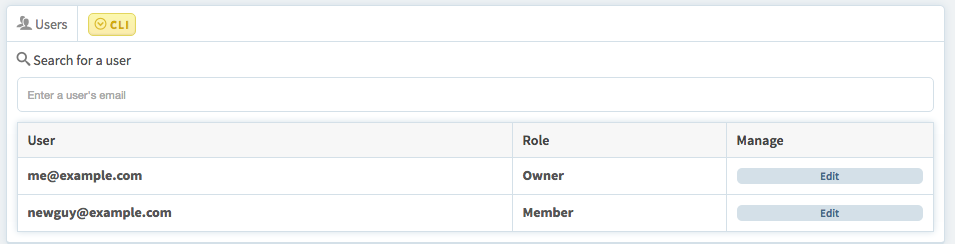
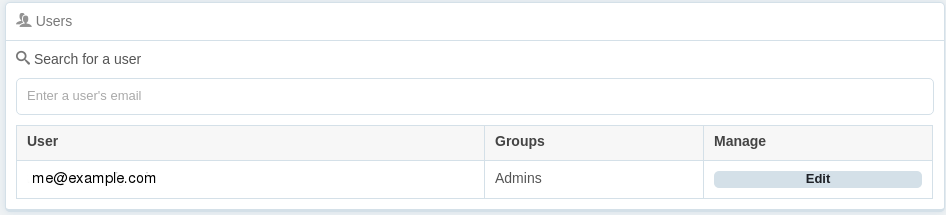
acl guide

Changed region(s): [[0.0, 0.0, 1.0, 1.0]]

diff --git a/concepts/organizations.md b/concepts/organizations.md
@@ -2,22 +2,23 @@
 title: Organizations
 category: organization
 summary: What is a Datica Organization?
-alias: ["compliant-cloud/articles/organization-access-controls/", "compliant-cloud/articles/organization-addremove-users/"]
+alias: ["compliant-cloud/articles/organization-addremove-users/"]
 ---
 
 An **Organization** is a group of user accounts, usable across all Datica products. Typically, an organization maps to (and is named after) your company. Organizations are created for you during the provisioning process. It is possible to be a member of multiple organizations.
 
 In [Compliant Cloud](https://datica.com/compliant-cloud), each [environment](/compliant-cloud/articles/concepts/environments) belongs to a single organization.
 
-## Roles
+## Groups
 
-Every user in an organization has a role.
+Every user in an organization belongs to at least one "group" ([more on "groups" and how to manage them](/compliant-cloud/articles/concepts/acl-groups)). Groups manage who in your organization has access to any given Datica resource or product. You can create and delete groups as you see fit, but you only start out with one, **Admins**, which is a group you may not delete or modify as it is the group that administrates user privileges (though you may revoke access to the group). Typically, an organization only has a few **Admins**. When a new organization is created for you, the first user invited becomes the first **Admin**.
 
-* **Members** can see the environments that belong to the organization, but can only view the details of and interact with environments that they have been specifically been granted permission on.
-* **Admins** can view the details of any of the organization's environments, grant **Members** permission to do the same, and invite new **Members** to the organization.
-* **Owners** can do anything an **Admin** can, as well as promote/demote other members of the organization to new roles.
+## ACLs
 
-Typically, an organization only has one **Owner**. When a new organization is created for you, the first user invited becomes the first **Owner**.
+Groups are [composed of ACLs](/compliant-cloud/articles/concepts/acl-groups)\, currently Datica supports two ACLs, though more are coming:
+
+* **Base** Can interact and control any component and product of your environment(s), except they do not have VPN access, and the cannot manage users.
+* **VPN Access** Can directly interact with your Datica network, runnings jobs, and services (**Note**: this is only relevant to organizations and environments that have a running VPN).
 
 ## Managing Your Organization
 
@@ -39,7 +40,16 @@ After it is accepted, it will disappear from this table.
 
 > ***Note:*** The [CLI](/compliant-cloud/articles/cli-stratum) [invites send](/compliant-cloud/cli-reference#invites-send) command can also be used to send an invite.
 
-## Removing Members, Changing Roles, and Granting Environment Access
+## Creating and Deleting  Groups
+If you want to create a new group that has a [different set of ACLs](/compliant-cloud/articles/concepts/acl-groups) than your other groups, simply click the `Add Group` button.
+
+![add_group](/compliant-cloud/articles/images/add_group.png)
+
+Name the group, and select the various ACLs you want the group to have.
+
+![make_group](/compliant-cloud/articles/images/make_group.png)
+
+## Removing Members, Changing Groups, and Granting Environment Access
 
 In the management tools, there is a list of all members of the organization.
 
@@ -49,20 +59,8 @@ Click on the Edit button to enter the details view for a member.
 
 ![org_member_details](/compliant-cloud/articles/images/organization_member_details.png)
 
-To change that member's role, select the new role from the dropdown and click Save.
+To remove a user from a group, click the `X` button by the group name.
 
-To remove the member from the organization, click the `X` button under "Remove User."
+To add a user to a group, select the group from the dropdown and click Save.
 
-To grant a **Member** access to specific environments (or revoke previously-granted access), adjust the radio controls as desired. Changes will be saved automatically.
-
-> ***Note:*** These screenshots are how an **Owner** sees the management tools. Lower roles have a simplified view.
-
-## Notes on Specific Environment Access
-
-If a member does not have granted access and their role is not admin or higher, they will not be able to interact with the environment in any way, beyond seeing that it exists. This includes but is not limited to:
-
-* Pushing code
-* Accessing logging
-* Accessing monitoring
-* Opening consoles
-* Associating to it
+To remove the member from the organization, click the `Remove User from Organization` button.
